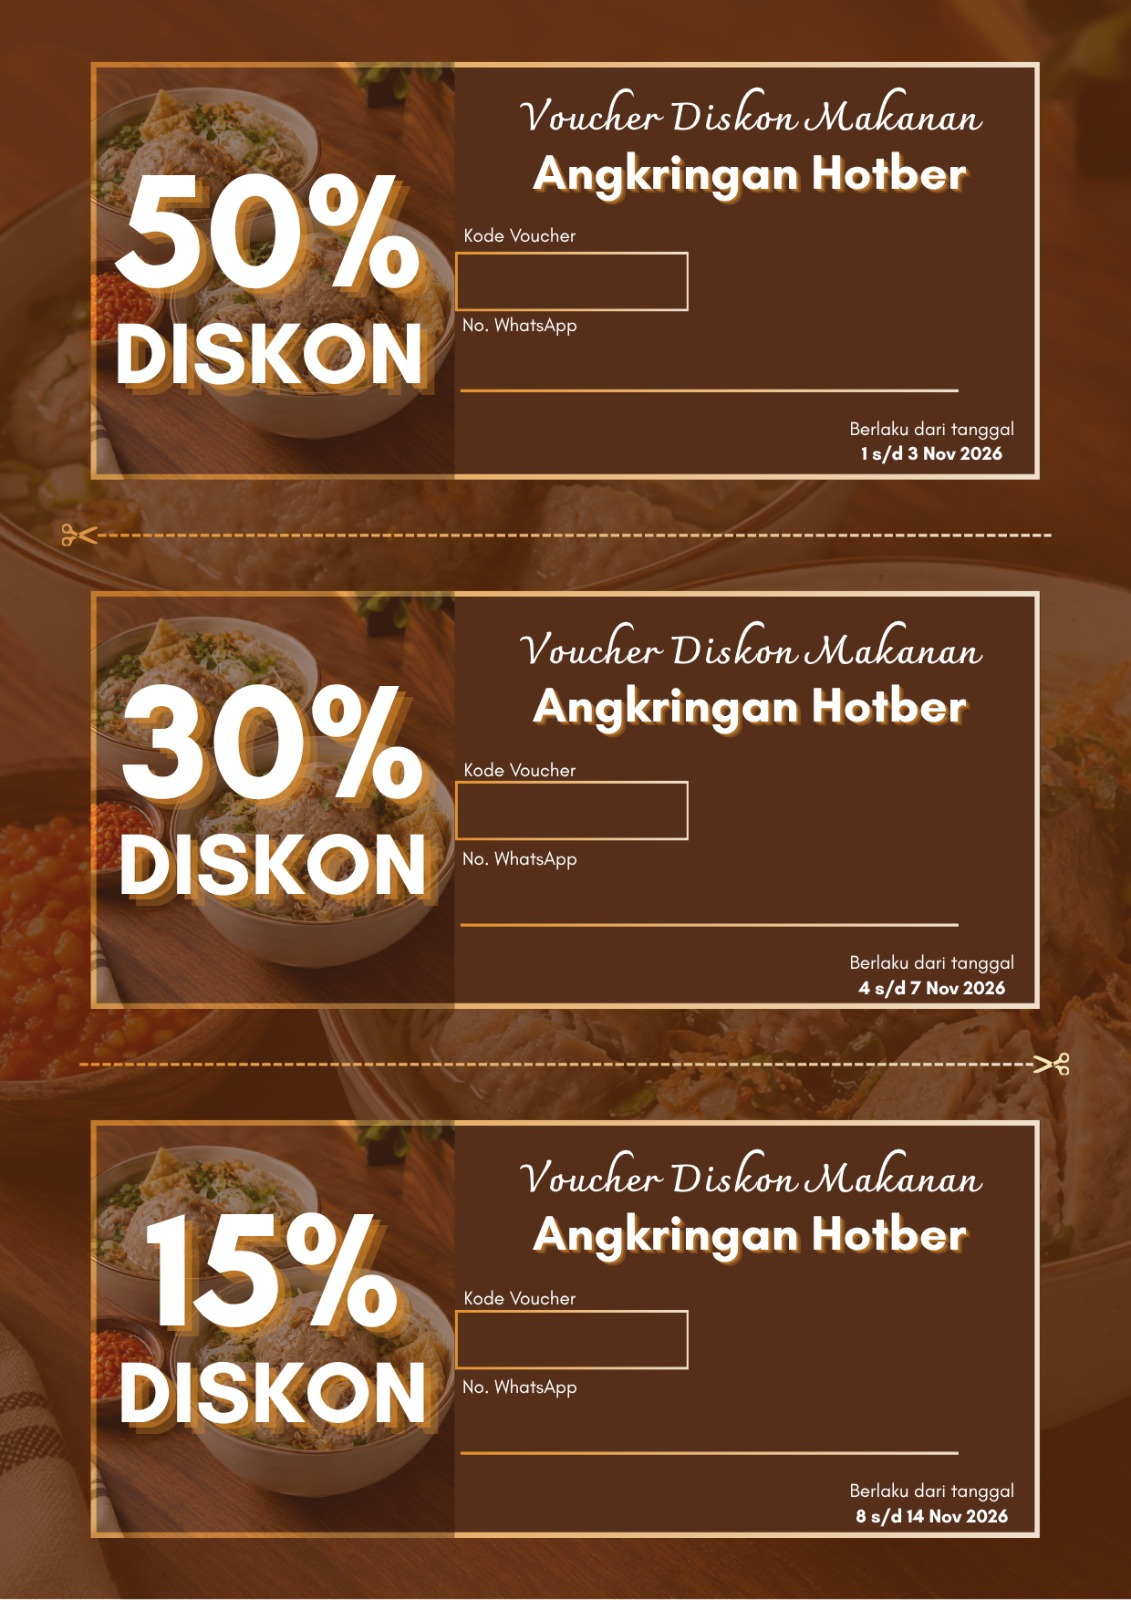
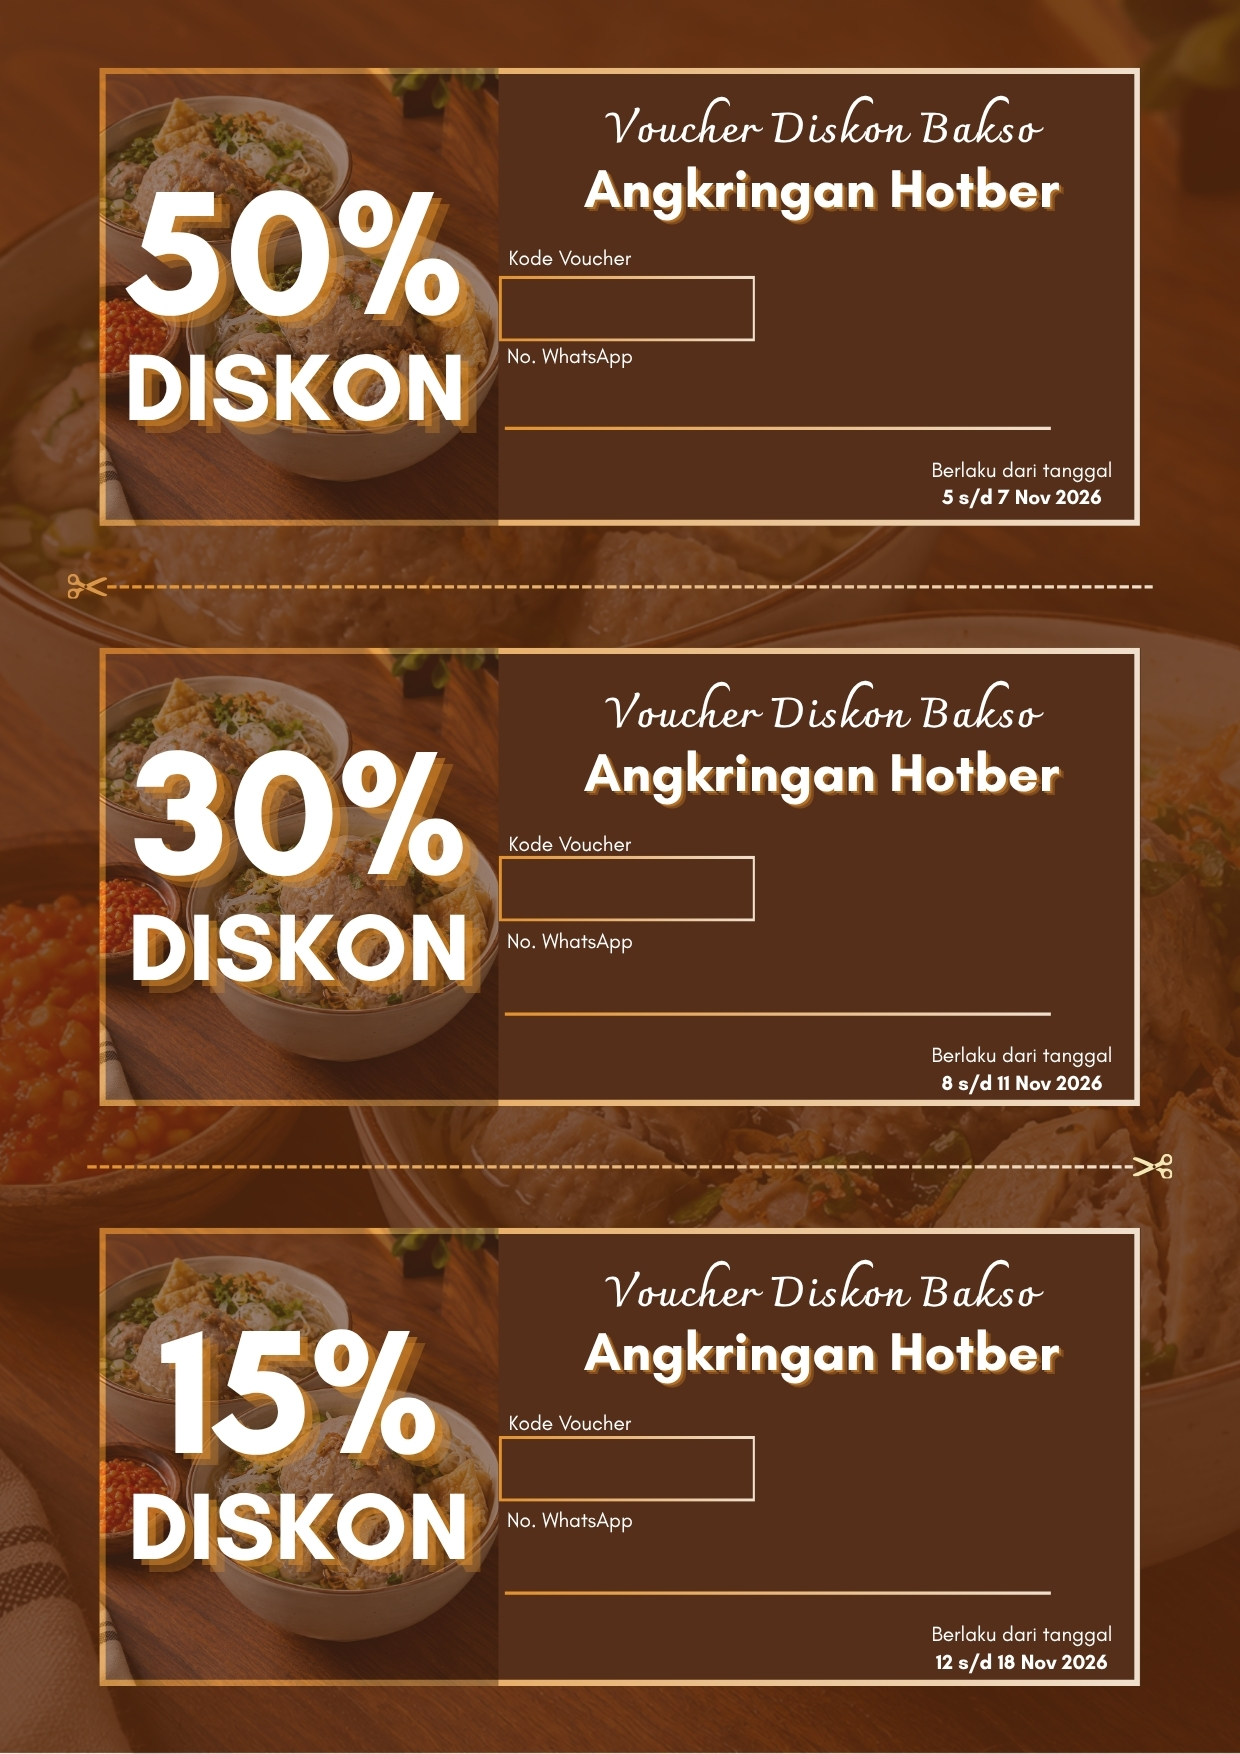
perbaiki voucher

diff --git a/public/assets/js/ang-vouchers.js b/public/assets/js/ang-vouchers.js
@@ -3,7 +3,7 @@
   'use strict';
 
   var fmtId = new Intl.NumberFormat('id-ID');
-  var MAX_SHEETS = 1000;
+  var MAX_SHEETS = 2000;
 
   function numberFormat(n) {
     return fmtId.format(n || 0);

diff --git a/app/Http/Controllers/Admin/SettingsController.php b/app/Http/Controllers/Admin/SettingsController.php
@@ -6,6 +6,7 @@ use App\Http\Controllers\Controller;
 use App\Http\Requests\Settings\StoreBrochureRequest;
 use App\Http\Requests\Settings\UpdateSettingsRequest;
 use App\Models\KuotaHampers;
+use App\Support\Brosur;
 use App\Support\Pengaturan;
 use Illuminate\Contracts\View\View;
 use Illuminate\Http\RedirectResponse;
@@ -14,36 +15,12 @@ use Illuminate\Support\Str;
 
 class SettingsController extends Controller
 {
-    private const BROCHURES = [
-        'brochure_main' => [
-            'title' => 'Poster promo',
-            'note' => 'Gambar yang dibagikan ke customer',
-            'fallback' => 'images/brosur-poster.jpeg',
-        ],
-        'brochure_voucher' => [
-            'title' => 'Lembar voucher',
-            'note' => 'Bentuk voucher cetak yang dibawa customer',
-            'fallback' => 'images/brosur-voucher.jpeg',
-        ],
-    ];
-
     public function edit(): View
     {
         $minVisits = Pengaturan::ambilInt('min_visits', Pengaturan::DEFAULT_MIN_VISITS);
         $windowDays = Pengaturan::ambilInt('window_days', Pengaturan::DEFAULT_WINDOW_DAYS);
         $quotaYear = KuotaHampers::tahun(now()->year);
-
-        $brochures = [];
-        foreach (self::BROCHURES as $key => $meta) {
-            $tersimpan = Pengaturan::ambil($key);
-
-            $brochures[] = [
-                'key' => $key,
-                'title' => $meta['title'],
-                'note' => $meta['note'],
-                'url' => asset($tersimpan ? 'images/brosur/'.$tersimpan : $meta['fallback']),
-            ];
-        }
+        $brochures = Brosur::semua();
 
         return view('settings.ang-index', compact('minVisits', 'windowDays', 'quotaYear', 'brochures'));
     }
@@ -65,9 +42,9 @@ class SettingsController extends Controller
 
     public function brochure(StoreBrochureRequest $request): RedirectResponse
     {
-        File::ensureDirectoryExists($this->directory());
+        File::ensureDirectoryExists(Brosur::directory());
 
-        foreach (array_keys(self::BROCHURES) as $key) {
+        foreach (array_column(Brosur::semua(), 'key') as $key) {
             $file = $request->file($key);
 
             if (! $file) {
@@ -85,10 +62,10 @@ class SettingsController extends Controller
                 Str::lower($extension)
             );
 
-            $file->move($this->directory(), $filename);
+            $file->move(Brosur::directory(), $filename);
 
             if ($lama = Pengaturan::ambil($key)) {
-                File::delete($this->directory().DIRECTORY_SEPARATOR.$lama);
+                File::delete(Brosur::directory().DIRECTORY_SEPARATOR.$lama);
             }
 
             Pengaturan::simpan($key, $filename);
@@ -97,10 +74,5 @@ class SettingsController extends Controller
         return redirect()
             ->route('admin.settings.edit')
             ->with('status', 'Brosur program berhasil diperbarui.');
-    }
-
-    private function directory(): string
-    {
-        return public_path('images'.DIRECTORY_SEPARATOR.'brosur');
     }
 }

diff --git a/app/Support/Brosur.php b/app/Support/Brosur.php
@@ -1,0 +1,81 @@
+<?php
+
+namespace App\Support;
+
+use Illuminate\Support\Facades\File;
+use InvalidArgumentException;
+
+/**
+ * Gambar brosur program (poster promo + lembar voucher).
+ *
+ * Nilai unggahan disimpan di tabel pengaturan berupa nama file
+ * di public/images/brosur. Bila belum pernah diunggah, atau filenya
+ * sudah tidak ada di disk (mis. ikut terhapus), tampilkan gambar bawaan.
+ */
+class Brosur
+{
+    private const META = [
+        'brochure_main' => [
+            'title' => 'Poster promo',
+            'note' => 'Gambar yang dibagikan ke customer',
+            'fallback' => 'images/brosur-poster.jpeg',
+        ],
+        'brochure_voucher' => [
+            'title' => 'Lembar voucher',
+            'note' => 'Bentuk voucher cetak yang dibawa customer',
+            'fallback' => 'images/brosur-voucher.jpeg',
+        ],
+    ];
+
+    /**
+     * Daftar brosur untuk halaman pengaturan.
+     *
+     * @return list<array{key: string, title: string, note: string, url: string}>
+     */
+    public static function semua(): array
+    {
+        $daftar = [];
+
+        foreach (self::META as $kunci => $meta) {
+            $daftar[] = [
+                'key' => $kunci,
+                'title' => $meta['title'],
+                'note' => $meta['note'],
+                'url' => self::url($kunci),
+            ];
+        }
+
+        return $daftar;
+    }
+
+    /**
+     * URL publik gambar brosur: file unggahan bila masih ada, jika tidak gambar bawaan.
+     */
+    public static function url(string $kunci): string
+    {
+        return asset(self::relatif($kunci));
+    }
+
+    /**
+     * Path relatif (terhadap public) gambar brosur.
+     */
+    public static function relatif(string $kunci): string
+    {
+        if (! isset(self::META[$kunci])) {
+            throw new InvalidArgumentException("Kunci brosur tidak dikenal: {$kunci}");
+        }
+
+        $tersimpan = Pengaturan::ambil($kunci);
+
+        if ($tersimpan && File::exists(self::directory().DIRECTORY_SEPARATOR.$tersimpan)) {
+            return 'images/brosur/'.$tersimpan;
+        }
+
+        return self::META[$kunci]['fallback'];
+    }
+
+    public static function directory(): string
+    {
+        return public_path('images'.DIRECTORY_SEPARATOR.'brosur');
+    }
+}

diff --git a/tests/Feature/SettingsTest.php b/tests/Feature/SettingsTest.php
@@ -68,6 +68,17 @@ class SettingsTest extends TestCase
             ->assertDontSee('assets/img/brosur-poster.jpg', false);
     }
 
+    public function test_settings_page_falls_back_when_saved_brochure_file_is_missing(): void
+    {
+        Pengaturan::simpan('brochure_main', 'brochure_main-tidak-ada.jpeg');
+
+        $this->actingAs($this->makeAdmin(), 'admin')
+            ->get(route('admin.settings.edit'))
+            ->assertOk()
+            ->assertSee('images/brosur-poster.jpeg', false)
+            ->assertDontSee('images/brosur/brochure_main-tidak-ada.jpeg', false);
+    }
+
     public function test_settings_page_shows_saved_values(): void
     {
         Pengaturan::simpan('min_visits', '12');

diff --git a/app/Http/Controllers/Admin/VoucherController.php b/app/Http/Controllers/Admin/VoucherController.php
@@ -6,7 +6,7 @@ use App\Http\Controllers\Controller;
 use App\Http\Requests\Voucher\CheckVoucherRequest;
 use App\Http\Requests\Voucher\GenerateVoucherRequest;
 use App\Models\Voucher;
-use App\Support\Pengaturan;
+use App\Support\Brosur;
 use App\Support\VoucherKuota;
 use Barryvdh\DomPDF\Facade\Pdf;
 use Illuminate\Contracts\View\View;
@@ -216,8 +216,6 @@ class VoucherController extends Controller
 
     private function voucherTemplateUrl(): string
     {
-        $tersimpan = Pengaturan::ambil('brochure_voucher');
-
-        return asset($tersimpan ? 'images/brosur/'.$tersimpan : 'images/brosur-voucher.jpeg');
+        return Brosur::url('brochure_voucher');
     }
 }
